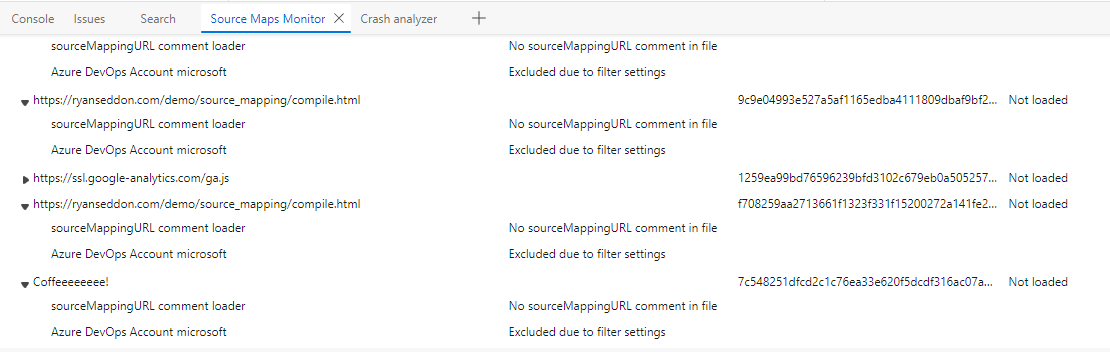
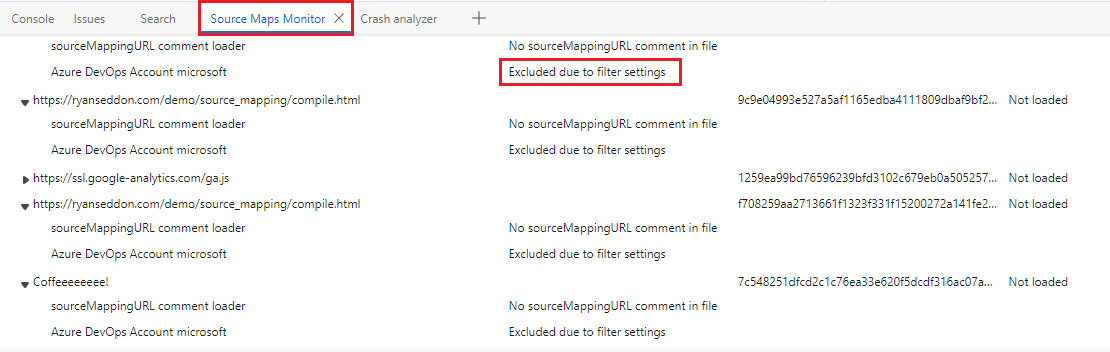
red boxes Source Map Monitor png

diff --git a/microsoft-edge/devtools-guide-chromium/whats-new/2023/07/devtools-115.md b/microsoft-edge/devtools-guide-chromium/whats-new/2023/07/devtools-115.md
@@ -43,7 +43,9 @@ https://cdn.contoso.com/*
 https://packages.contoso.com/*
 ```
 
-In this example, DevTools only attempts to resolve source maps that match these two URL patterns, and doesn't attempt to load source maps for other scripts.  The [Source Maps Monitor tool](../../../source-maps-monitor/source-maps-monitor-tool.md) has been updated to show which URL lookups have or haven't been attempted:
+In this example, DevTools only attempts to resolve source maps that match these two URL patterns, and doesn't attempt to load source maps for other scripts.
+
+The [Source Maps Monitor tool](../../../source-maps-monitor/source-maps-monitor-tool.md) has also been updated, to show which URL lookups have or haven't been attempted:
 
 ![Source Map Monitor tool indicates source map URL lookups attempted](./devtools-115-images/source-maps-monitor.png)
 
